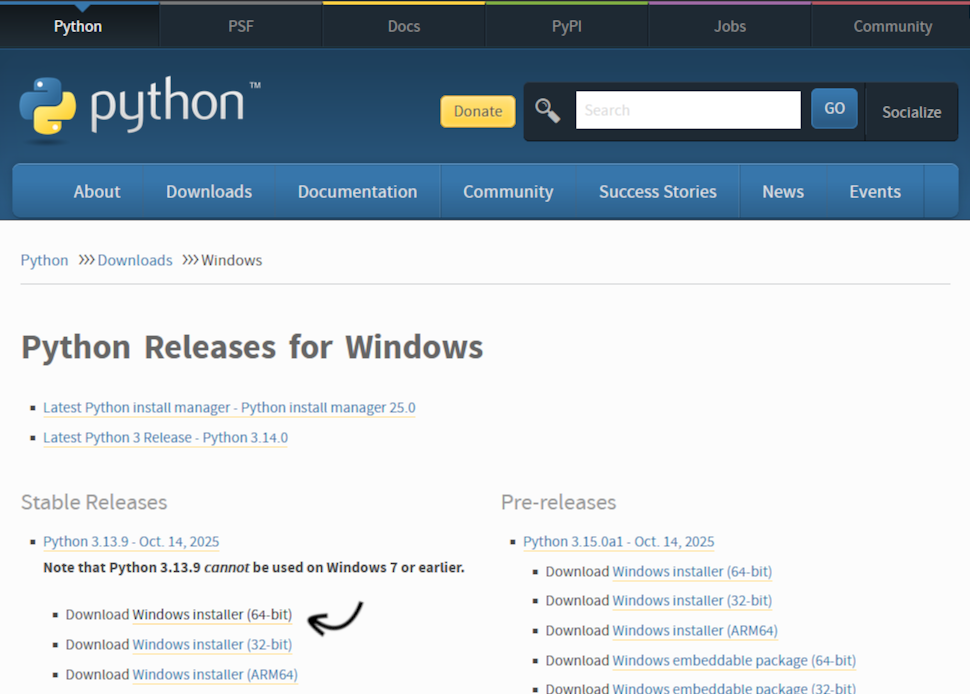
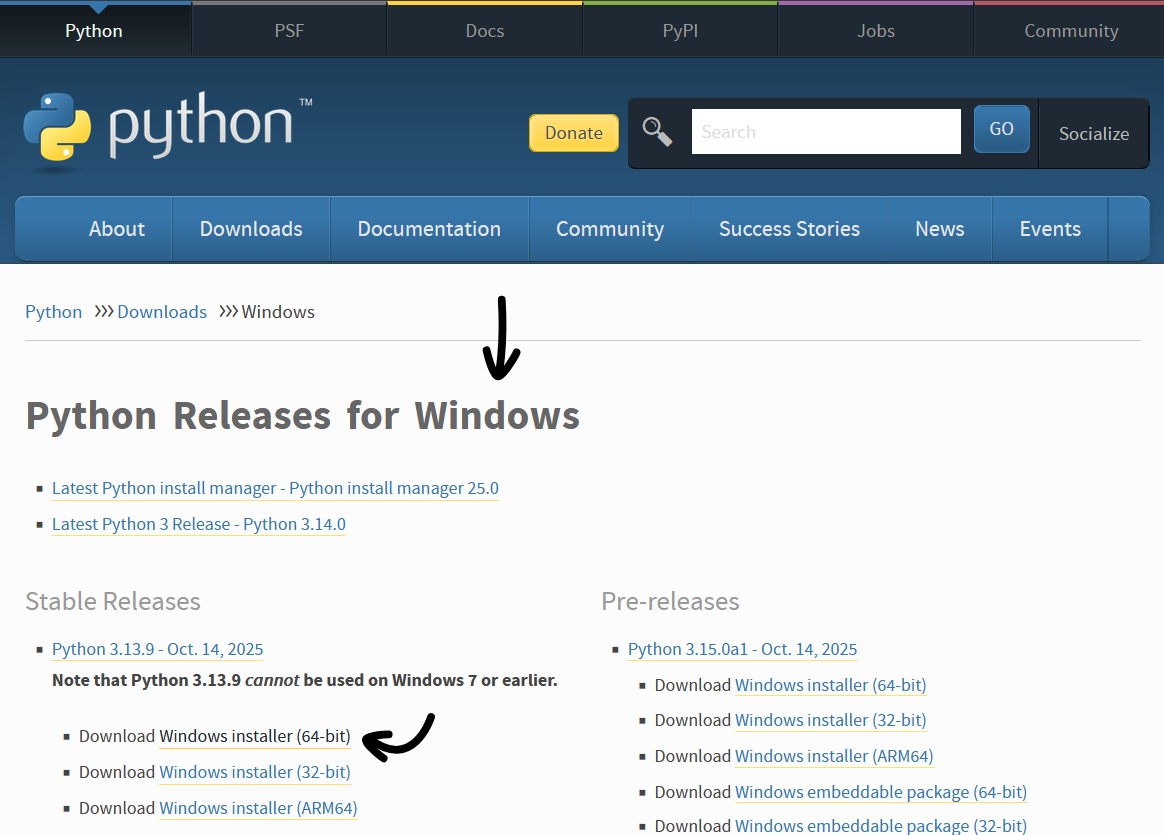
Document improved python install guide
- Made small improvements on each picture
- Made overview better

diff --git a/docs/install-python.md b/docs/install-python.md
@@ -4,37 +4,30 @@ Total time: 5-10 minutes
 
 ## Overview
 
-- Step 1: Download the installer
-
-- Step 2: Run the installer
-
-- Step 3: Select correct options
-
-- Step 4: Click "Install Now"
-
-- Step 5: Wait for installation
-
-- Step 6: Open Windows Terminal
-
-- Step 7: Verify the installation
-
-- Step 8: Optional but recommended
+- [Step 1: Download the installer](#step-1-download-the-installer)
+- [Step 2: Run the installer](#step-2-run-the-installer)
+- [Step 3: Select correct options](#step-3-select-correct-options)
+- [Step 4: Start installation](#step-4-start-installation)
+- [Step 5: Wait for installation (2-5 minutes)](#step-5-wait-for-installation-2-5-minutes)
+- [Step 6: Open Windows Terminal](#step-6-open-windows-terminal)
+- [Step 7: Verify the installation](#step-7-verify-the-installation)
+- [Step 8: Disable path length limit (Optional but recommended)](#step-8-disable-path-length-limit-optional-but-recommended)
 
 ## Step 1: Download the installer
 
-Open [Python Releases for Windows - https://www.python.org/downloads/windows/](assets/install-python/https://www.python.org/downloads/windows/)
+Open [Python Releases for Windows - https://www.python.org/downloads/windows/](https://www.python.org/downloads/windows/)
 
-Download the 64-bit Windows Installer (under Stable Releases)
+Download the 64-bit Windows Installer (under Stable Releases).
 
 ![Website - Python Releases for Window - Including arrow](assets/install-python/1.png)
 
 ## Step 2: Run the installer
 
-Open Windows explorer (shortcut: Windows key + E)
+Open Windows explorer (shortcut: Windows key + E).
 
-Open Downloads
+Open Downloads.
 
-Double click on the installer to run it
+Double click on the installer to run it.
 
 ![Explorer - Downloads](assets/install-python/2.png)
 
@@ -44,25 +37,21 @@ Check both checkboxes at the bottom.
 
 ![Python Installer - Options to check](assets/install-python/3.png)
 
-## Step 4: Click "Install Now"
+## Step 4: Start installation
 
 ![Python Installer - Click "Install Now"](assets/install-python/4.png)
 
-Click yes:
+## Step 5: Wait for installation (2-5 minutes)
 
-![UAC - Accept](assets/install-python/UAC-1.png)
+Don't click on any more buttons once the installer finishes. It's not a problem if you do. It's just good to check the installation worked before moving on.
 
-## Step 5: Wait for installation
-
-Don't click on any more buttons once the installer finishes. (It's not a problem if you do. It's just good to check the installation worked before moving on).
-
-![Python Installer - Progress bar](assets/install-python/5.png)
-
-![Python Installer - Pause at Setup was successful](assets/install-python/6.png)
+![Python Installer - Progress bar + Pause symbol](assets/install-python/5.png)
 
 ## Step 6: Open Windows Terminal
 
-Open Windows search, find "Terminal" and open it.
+Open Windows search.
+
+Find and open "Terminal".
 
 ![Windows search - Terminal](assets/install-python/7.png)
 
@@ -70,24 +59,18 @@ Open Windows search, find "Terminal" and open it.
 
 ## Step 7: Verify the installation
 
-Type the below and hit enter
-
-```sh
-python --version
-```
+Type `python --version` and hit Enter.
 
 ![Terminal - Python Version](assets/install-python/9.png)
 
 The output should be "Python" followed by the version if the installation was successful.
 
-## Step 8: Optional but recommended
+## Step 8: Disable path length limit
 
-Reopen the open Python Installer and click
+> Optional, but recommended
+
+Switch back to the Python Installer and click "Disable path length limit".
 
 ![Python Installer - Disable path length limit](assets/install-python/10.png)
 
-Click yes:
-
-![UAC - Accept](assets/install-python/UAC-2.png)
-
-_Python installation complete!_
+### *Python installation complete!*
